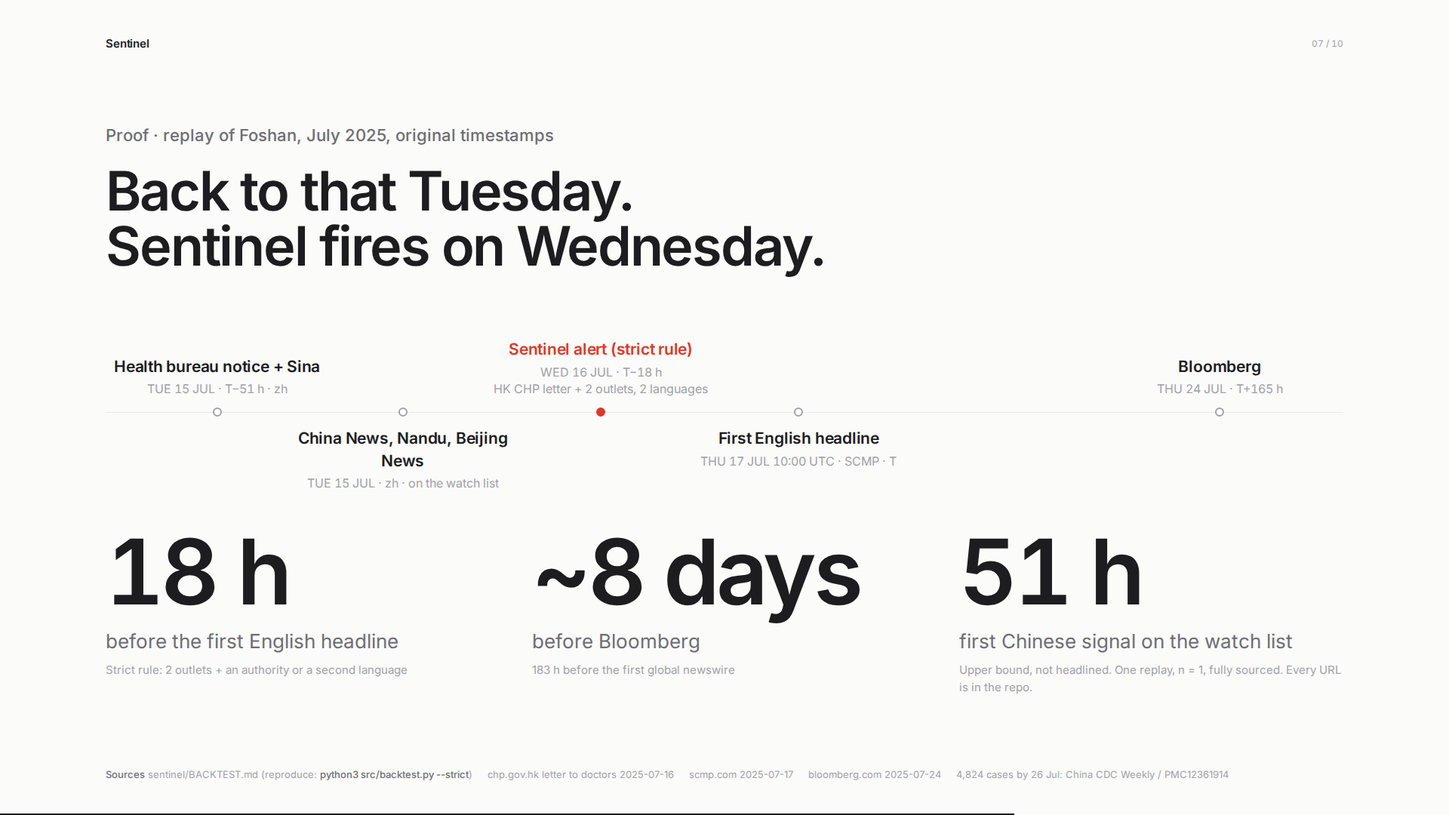
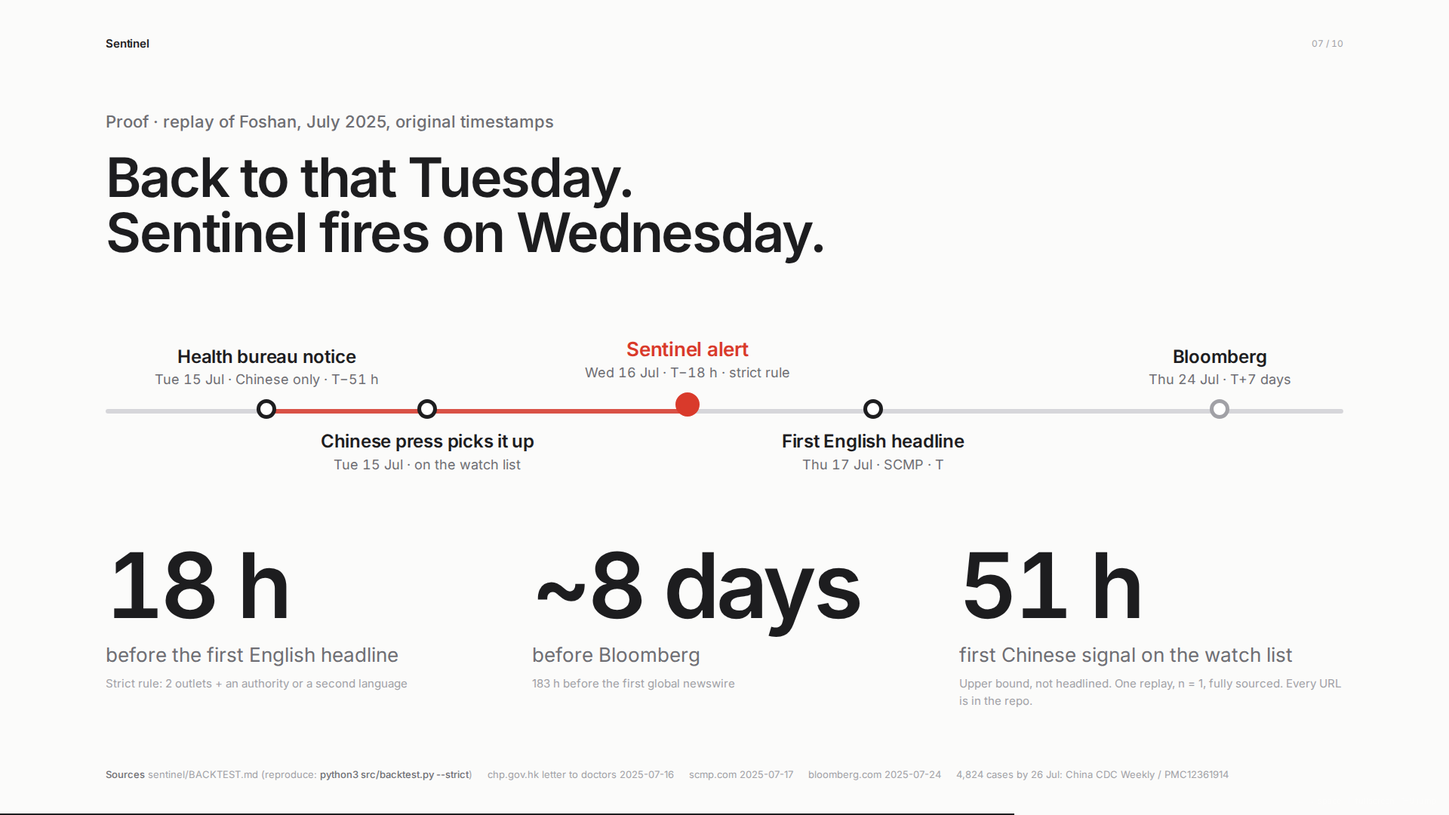
Deck: rebuild pipeline grid (slide 6) and timeline (slide 7)
Claude-Session: https://claude.ai/code/session_01FUCurQPFnAXBDdE5fg9zhM

diff --git a/pitch/deck.html b/pitch/deck.html
@@ -97,31 +97,35 @@
   .rules code { font-family: "SF Mono", ui-monospace, Menlo, monospace; font-size: 19px; background: #f2f2f3; padding: 1px 6px; border-radius: 5px; color: var(--ink); }
 
   /* 6 */
-  .pipe { width: 1640px; height: 520px; margin-top: 56px; display: block; }
-  .pipe .box { fill: #fff; stroke: var(--line); stroke-width: 1.5; }
+  .pipe { width: 1542px; height: 520px; margin-top: 40px; display: block; overflow: visible; }
+  .pipe .box { fill: #fff; stroke: #d6d6da; stroke-width: 1.5; }
   .pipe .lab { font-size: 26px; font-weight: 600; fill: var(--ink); letter-spacing: -0.01em; }
-  .pipe .sub { font-size: 17px; fill: var(--ink-2); }
+  .pipe .sub { font-size: 18px; fill: var(--ink-2); }
   .pipe .code, .pipe .llm { font-size: 13px; font-weight: 600; letter-spacing: .08em; fill: var(--ink-3); }
   .pipe .llm { fill: var(--accent); }
-  .pipe .in { font-size: 17px; fill: var(--ink-2); }
-  .pipe .arr { stroke: var(--ink-3); stroke-width: 1.5; fill: none; }
+  .pipe .in { font-size: 18px; fill: var(--ink-2); }
+  .pipe .arr { stroke: #6e6e73; stroke-width: 2.5; fill: none; stroke-linecap: round; }
   .pipe .note { font-size: 19px; fill: var(--ink-2); }
 
   /* 7 */
-  .bt { margin-top: 64px; }
-  .axis { position: relative; height: 240px; }
-  .axis::before { content: ""; position: absolute; left: 0; right: 0; top: 120px; height: 1px; background: var(--line); }
-  .pt { position: absolute; width: 300px; font-size: 18px; line-height: 1.4; color: var(--ink-2); transform: translateX(-50%); }
-  .pt .dot { width: 12px; height: 12px; border-radius: 50%; background: #fff; border: 2px solid var(--ink-3); margin: 0 auto; }
-  .pt .w { font-weight: 600; color: var(--ink); font-size: 21px; text-align: center; letter-spacing: -0.01em; }
-  .pt .t { color: var(--ink-3); text-align: center; font-size: 16px; font-variant-numeric: tabular-nums; }
-  .pt.above { top: 0; display: flex; flex-direction: column; justify-content: flex-end; height: 126px; gap: 4px; }
-  .pt.above .dot { margin-top: 10px; }
-  .pt.below { top: 114px; display: flex; flex-direction: column; gap: 4px; }
-  .pt.below .dot { margin-bottom: 10px; }
-  .pt.sig .dot { background: var(--accent); border-color: var(--accent); }
-  .pt.sig .w { color: var(--accent); }
-  .lead { display: grid; grid-template-columns: repeat(3, 1fr); gap: 56px; margin-top: 32px; }
+  .bt { margin-top: 48px; }
+  .axis { position: relative; height: 300px; }
+  .axis::before { content: ""; position: absolute; left: 0; right: 0; top: 150px; height: 6px; border-radius: 3px; background: #d6d6da; }
+  .axis .span { position: absolute; top: 150px; height: 6px; border-radius: 3px; background: var(--accent); opacity: .85; }
+  .pt { position: absolute; width: 330px; line-height: 1.35; color: var(--ink-2); transform: translateX(-50%); text-align: center; }
+  .pt .dot { width: 26px; height: 26px; border-radius: 50%; background: #fff; border: 5px solid var(--ink); margin: 0 auto; box-sizing: border-box; }
+  .pt .w { font-weight: 600; color: var(--ink); font-size: 24px; letter-spacing: -0.01em; }
+  .pt .t { color: var(--ink-2); font-size: 18px; font-variant-numeric: tabular-nums; margin-top: 2px; }
+  .pt.above { top: 0; height: 163px; display: flex; flex-direction: column; justify-content: flex-end; }
+  .pt.above .dot { margin-top: 14px; }
+  .pt.below { top: 137px; display: flex; flex-direction: column; }
+  .pt.below .dot { margin-bottom: 14px; }
+  .pt.sig .dot { background: var(--accent); border-color: var(--accent); width: 32px; height: 32px; }
+  .pt.sig.above { height: 160px; }
+  .pt.sig.below { top: 134px; }
+  .pt.sig .w { color: var(--accent); font-size: 26px; }
+  .pt.faint .dot { border-color: var(--ink-3); }
+  .lead { display: grid; grid-template-columns: repeat(3, 1fr); gap: 56px; margin-top: 24px; }
   .lead .n { font-size: 120px; }
 
   /* 8 */
@@ -254,68 +258,14 @@ Nine agents. The language model reads and writes prose. Plain code holds every g
   <div class="num">06 / 10</div>
   <p class="kicker">Nine agents, one cycle every ten minutes</p>
   <h1 class="mid">Stages that don't trust each other.</h1>
-  <svg class="pipe" viewBox="0 0 1640 520" xmlns="http://www.w3.org/2000/svg">
-    <defs><marker id="a" viewBox="0 0 10 10" refX="9" refY="5" markerWidth="7" markerHeight="7" orient="auto-start-reverse"><path d="M0 0L10 5L0 10z" fill="#a1a1a6"/></marker></defs>
-    <!-- inputs -->
-    <g>
-      <text class="in" x="0" y="52">NHC · GDACS · USGS</text>
-      <text class="in" x="0" y="76">WHO DON · ECDC · EONET</text>
-      <text class="in" x="0" y="100">Google News en/es/fr/pt/hi/zh</text>
-      <path class="arr" d="M250 72 L 290 72" marker-end="url(#a)"/>
-    </g>
-    <!-- row 1 -->
-    <g>
-      <rect class="box" x="290" y="20" width="190" height="104" rx="14"/>
-      <text class="lab" x="312" y="58">Fetch</text><text class="sub" x="312" y="82">cache-first, offline</text><text class="code" x="312" y="108">CODE</text>
-      <path class="arr" d="M480 72 L 520 72" marker-end="url(#a)"/>
-
-      <rect class="box" x="520" y="20" width="190" height="104" rx="14"/>
-      <text class="lab" x="542" y="58">Scout</text><text class="sub" x="542" y="82">cluster signals → events</text><text class="llm" x="542" y="108">CLAUDE</text>
-      <path class="arr" d="M710 72 L 750 72" marker-end="url(#a)"/>
-
-      <rect class="box" x="750" y="20" width="240" height="104" rx="14"/>
-      <text class="lab" x="772" y="58">Corroborator</text><text class="sub" x="772" y="82">≥2 independent · any language</text><text class="code" x="772" y="108">CODE</text>
-      <path class="arr" d="M990 72 L 1030 72" marker-end="url(#a)"/>
-
-      <rect class="box" x="1030" y="20" width="190" height="104" rx="14"/>
-      <text class="lab" x="1052" y="58">Verifier</text><text class="sub" x="1052" y="82">quote found verbatim</text><text class="code" x="1052" y="108">CODE</text>
-      <path class="arr" d="M1220 72 L 1260 72" marker-end="url(#a)"/>
-
-      <rect class="box" x="1260" y="20" width="210" height="104" rx="14"/>
-      <text class="lab" x="1282" y="58">Assessor</text><text class="sub" x="1282" y="82">severity COPIED · score</text><text class="llm" x="1282" y="108">CLAUDE</text>
-    </g>
-    <!-- turn -->
-    <path class="arr" d="M1365 124 L 1365 230" marker-end="url(#a)"/>
-    <!-- row 2, right to left -->
-    <g>
-      <rect class="box" x="1260" y="230" width="210" height="104" rx="14"/>
-      <text class="lab" x="1282" y="268">Exposure</text><text class="sub" x="1282" y="292">footprint × our book</text><text class="code" x="1282" y="318">CODE · SPATIAL JOIN</text>
-      <path class="arr" d="M1260 282 L 1220 282" marker-end="url(#a)"/>
-
-      <rect class="box" x="980" y="230" width="240" height="104" rx="14"/>
-      <text class="lab" x="1002" y="268">Brief × 3</text><text class="sub" x="1002" y="292">Health · Wealth · Insurance</text><text class="llm" x="1002" y="318">CLAUDE · QUOTES ONLY</text>
-      <path class="arr" d="M980 282 L 940 282" marker-end="url(#a)"/>
-
-      <rect class="box" x="750" y="230" width="190" height="104" rx="14"/>
-      <text class="lab" x="772" y="268">Router</text><text class="sub" x="772" y="292">touches book / threshold</text><text class="code" x="772" y="318">CODE · DEDUP</text>
-      <path class="arr" d="M750 282 L 710 282" marker-end="url(#a)"/>
-
-      <rect class="box" x="520" y="230" width="190" height="104" rx="14"/>
-      <text class="lab" x="542" y="268">Notifier</text><text class="sub" x="542" y="292">Slack / email + caveat</text><text class="code" x="542" y="318">CODE</text>
-      <path class="arr" d="M520 282 L 480 282" marker-end="url(#a)"/>
-    </g>
-    <!-- outputs -->
-    <g>
-      <text class="in" x="460" y="262" text-anchor="end">CUO Property · Cat desk</text>
-      <text class="in" x="460" y="286" text-anchor="end">Claims · A&amp;H · Travel · CIO</text>
-      <text class="in" x="460" y="310" text-anchor="end">+ run log, every cycle</text>
-    </g>
-    <!-- legend -->
-    <g transform="translate(0,420)">
-      <text class="llm" x="0" y="0">CLAUDE</text><text class="sub" x="70" y="0">Language model: reads, clusters, writes prose from verified quotes</text>
-      <text class="code" x="600" y="0">CODE</text><text class="sub" x="650" y="0">Plain code: gates, verification, geometry, routing. Every stage has a deterministic fallback.</text>
-    </g>
-    <text class="note" x="0" y="470">One Python orchestrator. Claude calls are cached by evidence hash; a full cycle is under $1. If the API is down, the alert still ships.</text>
+  <svg class="pipe" viewBox="0 -8 1542 520" xmlns="http://www.w3.org/2000/svg">
+    <defs><marker id="a" viewBox="0 0 10 10" refX="9" refY="5" markerWidth="6" markerHeight="6" orient="auto-start-reverse"><path d="M0 0L10 5L0 10z" fill="#6e6e73"/></marker></defs>
+    <rect class="box" x="0" y="20" width="286" height="120" rx="16"/><text class="lab" x="24" y="64">Fetch</text><text class="sub" x="24" y="94">cache-first, offline</text><text class="code" x="24" y="122">CODE</text><path class="arr" d="M290 80.0 L310 80.0" marker-end="url(#a)"/><rect class="box" x="314" y="20" width="286" height="120" rx="16"/><text class="lab" x="338" y="64">Scout</text><text class="sub" x="338" y="94">cluster signals into events</text><text class="llm" x="338" y="122">CLAUDE</text><path class="arr" d="M604 80.0 L624 80.0" marker-end="url(#a)"/><rect class="box" x="628" y="20" width="286" height="120" rx="16"/><text class="lab" x="652" y="64">Corroborator</text><text class="sub" x="652" y="94">2+ independent, any language</text><text class="code" x="652" y="122">CODE</text><path class="arr" d="M918 80.0 L938 80.0" marker-end="url(#a)"/><rect class="box" x="942" y="20" width="286" height="120" rx="16"/><text class="lab" x="966" y="64">Verifier</text><text class="sub" x="966" y="94">quote found verbatim</text><text class="code" x="966" y="122">CODE</text><path class="arr" d="M1232 80.0 L1252 80.0" marker-end="url(#a)"/><rect class="box" x="1256" y="20" width="286" height="120" rx="16"/><text class="lab" x="1280" y="64">Assessor</text><text class="sub" x="1280" y="94">severity copied, score</text><text class="llm" x="1280" y="122">CLAUDE</text><path class="arr" d="M1399.0 144 L1399.0 246" marker-end="url(#a)"/><rect class="box" x="1256" y="250" width="286" height="120" rx="16"/><text class="lab" x="1280" y="294">Exposure</text><text class="sub" x="1280" y="324">event × our book</text><text class="code" x="1280" y="352">CODE</text><path class="arr" d="M1252 310.0 L1232 310.0" marker-end="url(#a)"/><rect class="box" x="942" y="250" width="286" height="120" rx="16"/><text class="lab" x="966" y="294">Brief × 3</text><text class="sub" x="966" y="324">Health · Wealth · Insurance</text><text class="llm" x="966" y="352">CLAUDE</text><path class="arr" d="M938 310.0 L918 310.0" marker-end="url(#a)"/><rect class="box" x="628" y="250" width="286" height="120" rx="16"/><text class="lab" x="652" y="294">Router</text><text class="sub" x="652" y="324">who owns the decision</text><text class="code" x="652" y="352">CODE</text><path class="arr" d="M624 310.0 L604 310.0" marker-end="url(#a)"/><rect class="box" x="314" y="250" width="286" height="120" rx="16"/><text class="lab" x="338" y="294">Notifier</text><text class="sub" x="338" y="324">Slack, email, caveat</text><text class="code" x="338" y="352">CODE</text><path class="arr" d="M310 310.0 L274 310.0" marker-end="url(#a)"/><text class="in" x="262" y="296.0" text-anchor="end">CUO · Cat desk · Claims</text><text class="in" x="262" y="324.0" text-anchor="end">A&amp;H · Travel · CIO</text><text class="in" x="0" y="18" style="font-size:16px">Inputs: NHC · GDACS · USGS · WHO · ECDC · EONET · news in en/es/fr/pt/hi/zh</text>
+    <g transform="translate(0,440)">
+  <text class="llm" x="0" y="0">CLAUDE</text><text class="sub" x="90" y="0">reads, clusters and writes prose from verified quotes</text>
+  <text class="code" x="640" y="0">CODE</text><text class="sub" x="710" y="0">gates, verification, geometry, routing. Every stage has a fallback.</text>
+</g>
+<text class="note" x="0" y="488">One Python orchestrator. A full cycle costs under $1. If the model is down, the alert still ships.</text>
   </svg>
   <div class="foot"><span><b>Sources</b> README.md pipeline and design rule 3</span><span>pitch/QA.md Q5 (cost), Q9 (always-on)</span><span>sentinel/src/run.py, agents.py</span></div>
 </section>
@@ -328,11 +278,12 @@ Nine agents. The language model reads and writes prose. Plain code holds every g
   <h1 class="mid">Back to that Tuesday. Sentinel fires on Wednesday.</h1>
   <div class="bt">
     <div class="axis">
-      <div class="pt above" style="left:9%"><div class="w">Health bureau notice + Sina</div><div class="t">TUE 15 JUL · T−51 h · zh</div><div class="dot"></div></div>
-      <div class="pt below" style="left:24%"><div class="dot"></div><div class="w">China News, Nandu, Beijing News</div><div class="t">TUE 15 JUL · zh · on the watch list</div></div>
-      <div class="pt sig above" style="left:40%"><div class="w">Sentinel alert (strict rule)</div><div class="t">WED 16 JUL · T−18 h<br>HK CHP letter + 2 outlets, 2 languages</div><div class="dot"></div></div>
-      <div class="pt below" style="left:56%"><div class="dot"></div><div class="w">First English headline</div><div class="t">THU 17 JUL 10:00 UTC · SCMP · T</div></div>
-      <div class="pt above" style="left:90%"><div class="w">Bloomberg</div><div class="t">THU 24 JUL · T+165 h</div><div class="dot"></div></div>
+      <div class="span" style="left:13%;width:34%"></div>
+      <div class="pt above" style="left:13%"><div class="w">Health bureau notice</div><div class="t">Tue 15 Jul · Chinese only · T−51 h</div><div class="dot"></div></div>
+      <div class="pt below" style="left:26%"><div class="dot"></div><div class="w">Chinese press picks it up</div><div class="t">Tue 15 Jul · on the watch list</div></div>
+      <div class="pt sig above" style="left:47%"><div class="w">Sentinel alert</div><div class="t">Wed 16 Jul · T−18 h · strict rule</div><div class="dot"></div></div>
+      <div class="pt below" style="left:62%"><div class="dot"></div><div class="w">First English headline</div><div class="t">Thu 17 Jul · SCMP · T</div></div>
+      <div class="pt above faint" style="left:90%"><div class="w">Bloomberg</div><div class="t">Thu 24 Jul · T+7 days</div><div class="dot"></div></div>
     </div>
     <div class="lead">
       <div><div class="n">18 h</div><div class="cap">before the first English headline</div><div class="src">Strict rule: 2 outlets + an authority or a second language</div></div>

diff --git a/sentinel/ui/deck/index.html b/sentinel/ui/deck/index.html
@@ -97,31 +97,35 @@
   .rules code { font-family: "SF Mono", ui-monospace, Menlo, monospace; font-size: 19px; background: #f2f2f3; padding: 1px 6px; border-radius: 5px; color: var(--ink); }
 
   /* 6 */
-  .pipe { width: 1640px; height: 520px; margin-top: 56px; display: block; }
-  .pipe .box { fill: #fff; stroke: var(--line); stroke-width: 1.5; }
+  .pipe { width: 1542px; height: 520px; margin-top: 40px; display: block; overflow: visible; }
+  .pipe .box { fill: #fff; stroke: #d6d6da; stroke-width: 1.5; }
   .pipe .lab { font-size: 26px; font-weight: 600; fill: var(--ink); letter-spacing: -0.01em; }
-  .pipe .sub { font-size: 17px; fill: var(--ink-2); }
+  .pipe .sub { font-size: 18px; fill: var(--ink-2); }
   .pipe .code, .pipe .llm { font-size: 13px; font-weight: 600; letter-spacing: .08em; fill: var(--ink-3); }
   .pipe .llm { fill: var(--accent); }
-  .pipe .in { font-size: 17px; fill: var(--ink-2); }
-  .pipe .arr { stroke: var(--ink-3); stroke-width: 1.5; fill: none; }
+  .pipe .in { font-size: 18px; fill: var(--ink-2); }
+  .pipe .arr { stroke: #6e6e73; stroke-width: 2.5; fill: none; stroke-linecap: round; }
   .pipe .note { font-size: 19px; fill: var(--ink-2); }
 
   /* 7 */
-  .bt { margin-top: 64px; }
-  .axis { position: relative; height: 240px; }
-  .axis::before { content: ""; position: absolute; left: 0; right: 0; top: 120px; height: 1px; background: var(--line); }
-  .pt { position: absolute; width: 300px; font-size: 18px; line-height: 1.4; color: var(--ink-2); transform: translateX(-50%); }
-  .pt .dot { width: 12px; height: 12px; border-radius: 50%; background: #fff; border: 2px solid var(--ink-3); margin: 0 auto; }
-  .pt .w { font-weight: 600; color: var(--ink); font-size: 21px; text-align: center; letter-spacing: -0.01em; }
-  .pt .t { color: var(--ink-3); text-align: center; font-size: 16px; font-variant-numeric: tabular-nums; }
-  .pt.above { top: 0; display: flex; flex-direction: column; justify-content: flex-end; height: 126px; gap: 4px; }
-  .pt.above .dot { margin-top: 10px; }
-  .pt.below { top: 114px; display: flex; flex-direction: column; gap: 4px; }
-  .pt.below .dot { margin-bottom: 10px; }
-  .pt.sig .dot { background: var(--accent); border-color: var(--accent); }
-  .pt.sig .w { color: var(--accent); }
-  .lead { display: grid; grid-template-columns: repeat(3, 1fr); gap: 56px; margin-top: 32px; }
+  .bt { margin-top: 48px; }
+  .axis { position: relative; height: 300px; }
+  .axis::before { content: ""; position: absolute; left: 0; right: 0; top: 150px; height: 6px; border-radius: 3px; background: #d6d6da; }
+  .axis .span { position: absolute; top: 150px; height: 6px; border-radius: 3px; background: var(--accent); opacity: .85; }
+  .pt { position: absolute; width: 330px; line-height: 1.35; color: var(--ink-2); transform: translateX(-50%); text-align: center; }
+  .pt .dot { width: 26px; height: 26px; border-radius: 50%; background: #fff; border: 5px solid var(--ink); margin: 0 auto; box-sizing: border-box; }
+  .pt .w { font-weight: 600; color: var(--ink); font-size: 24px; letter-spacing: -0.01em; }
+  .pt .t { color: var(--ink-2); font-size: 18px; font-variant-numeric: tabular-nums; margin-top: 2px; }
+  .pt.above { top: 0; height: 163px; display: flex; flex-direction: column; justify-content: flex-end; }
+  .pt.above .dot { margin-top: 14px; }
+  .pt.below { top: 137px; display: flex; flex-direction: column; }
+  .pt.below .dot { margin-bottom: 14px; }
+  .pt.sig .dot { background: var(--accent); border-color: var(--accent); width: 32px; height: 32px; }
+  .pt.sig.above { height: 160px; }
+  .pt.sig.below { top: 134px; }
+  .pt.sig .w { color: var(--accent); font-size: 26px; }
+  .pt.faint .dot { border-color: var(--ink-3); }
+  .lead { display: grid; grid-template-columns: repeat(3, 1fr); gap: 56px; margin-top: 24px; }
   .lead .n { font-size: 120px; }
 
   /* 8 */
@@ -254,68 +258,14 @@ Nine agents. The language model reads and writes prose. Plain code holds every g
   <div class="num">06 / 10</div>
   <p class="kicker">Nine agents, one cycle every ten minutes</p>
   <h1 class="mid">Stages that don't trust each other.</h1>
-  <svg class="pipe" viewBox="0 0 1640 520" xmlns="http://www.w3.org/2000/svg">
-    <defs><marker id="a" viewBox="0 0 10 10" refX="9" refY="5" markerWidth="7" markerHeight="7" orient="auto-start-reverse"><path d="M0 0L10 5L0 10z" fill="#a1a1a6"/></marker></defs>
-    <!-- inputs -->
-    <g>
-      <text class="in" x="0" y="52">NHC · GDACS · USGS</text>
-      <text class="in" x="0" y="76">WHO DON · ECDC · EONET</text>
-      <text class="in" x="0" y="100">Google News en/es/fr/pt/hi/zh</text>
-      <path class="arr" d="M250 72 L 290 72" marker-end="url(#a)"/>
-    </g>
-    <!-- row 1 -->
-    <g>
-      <rect class="box" x="290" y="20" width="190" height="104" rx="14"/>
-      <text class="lab" x="312" y="58">Fetch</text><text class="sub" x="312" y="82">cache-first, offline</text><text class="code" x="312" y="108">CODE</text>
-      <path class="arr" d="M480 72 L 520 72" marker-end="url(#a)"/>
-
-      <rect class="box" x="520" y="20" width="190" height="104" rx="14"/>
-      <text class="lab" x="542" y="58">Scout</text><text class="sub" x="542" y="82">cluster signals → events</text><text class="llm" x="542" y="108">CLAUDE</text>
-      <path class="arr" d="M710 72 L 750 72" marker-end="url(#a)"/>
-
-      <rect class="box" x="750" y="20" width="240" height="104" rx="14"/>
-      <text class="lab" x="772" y="58">Corroborator</text><text class="sub" x="772" y="82">≥2 independent · any language</text><text class="code" x="772" y="108">CODE</text>
-      <path class="arr" d="M990 72 L 1030 72" marker-end="url(#a)"/>
-
-      <rect class="box" x="1030" y="20" width="190" height="104" rx="14"/>
-      <text class="lab" x="1052" y="58">Verifier</text><text class="sub" x="1052" y="82">quote found verbatim</text><text class="code" x="1052" y="108">CODE</text>
-      <path class="arr" d="M1220 72 L 1260 72" marker-end="url(#a)"/>
-
-      <rect class="box" x="1260" y="20" width="210" height="104" rx="14"/>
-      <text class="lab" x="1282" y="58">Assessor</text><text class="sub" x="1282" y="82">severity COPIED · score</text><text class="llm" x="1282" y="108">CLAUDE</text>
-    </g>
-    <!-- turn -->
-    <path class="arr" d="M1365 124 L 1365 230" marker-end="url(#a)"/>
-    <!-- row 2, right to left -->
-    <g>
-      <rect class="box" x="1260" y="230" width="210" height="104" rx="14"/>
-      <text class="lab" x="1282" y="268">Exposure</text><text class="sub" x="1282" y="292">footprint × our book</text><text class="code" x="1282" y="318">CODE · SPATIAL JOIN</text>
-      <path class="arr" d="M1260 282 L 1220 282" marker-end="url(#a)"/>
-
-      <rect class="box" x="980" y="230" width="240" height="104" rx="14"/>
-      <text class="lab" x="1002" y="268">Brief × 3</text><text class="sub" x="1002" y="292">Health · Wealth · Insurance</text><text class="llm" x="1002" y="318">CLAUDE · QUOTES ONLY</text>
-      <path class="arr" d="M980 282 L 940 282" marker-end="url(#a)"/>
-
-      <rect class="box" x="750" y="230" width="190" height="104" rx="14"/>
-      <text class="lab" x="772" y="268">Router</text><text class="sub" x="772" y="292">touches book / threshold</text><text class="code" x="772" y="318">CODE · DEDUP</text>
-      <path class="arr" d="M750 282 L 710 282" marker-end="url(#a)"/>
-
-      <rect class="box" x="520" y="230" width="190" height="104" rx="14"/>
-      <text class="lab" x="542" y="268">Notifier</text><text class="sub" x="542" y="292">Slack / email + caveat</text><text class="code" x="542" y="318">CODE</text>
-      <path class="arr" d="M520 282 L 480 282" marker-end="url(#a)"/>
-    </g>
-    <!-- outputs -->
-    <g>
-      <text class="in" x="460" y="262" text-anchor="end">CUO Property · Cat desk</text>
-      <text class="in" x="460" y="286" text-anchor="end">Claims · A&amp;H · Travel · CIO</text>
-      <text class="in" x="460" y="310" text-anchor="end">+ run log, every cycle</text>
-    </g>
-    <!-- legend -->
-    <g transform="translate(0,420)">
-      <text class="llm" x="0" y="0">CLAUDE</text><text class="sub" x="70" y="0">Language model: reads, clusters, writes prose from verified quotes</text>
-      <text class="code" x="600" y="0">CODE</text><text class="sub" x="650" y="0">Plain code: gates, verification, geometry, routing. Every stage has a deterministic fallback.</text>
-    </g>
-    <text class="note" x="0" y="470">One Python orchestrator. Claude calls are cached by evidence hash; a full cycle is under $1. If the API is down, the alert still ships.</text>
+  <svg class="pipe" viewBox="0 -8 1542 520" xmlns="http://www.w3.org/2000/svg">
+    <defs><marker id="a" viewBox="0 0 10 10" refX="9" refY="5" markerWidth="6" markerHeight="6" orient="auto-start-reverse"><path d="M0 0L10 5L0 10z" fill="#6e6e73"/></marker></defs>
+    <rect class="box" x="0" y="20" width="286" height="120" rx="16"/><text class="lab" x="24" y="64">Fetch</text><text class="sub" x="24" y="94">cache-first, offline</text><text class="code" x="24" y="122">CODE</text><path class="arr" d="M290 80.0 L310 80.0" marker-end="url(#a)"/><rect class="box" x="314" y="20" width="286" height="120" rx="16"/><text class="lab" x="338" y="64">Scout</text><text class="sub" x="338" y="94">cluster signals into events</text><text class="llm" x="338" y="122">CLAUDE</text><path class="arr" d="M604 80.0 L624 80.0" marker-end="url(#a)"/><rect class="box" x="628" y="20" width="286" height="120" rx="16"/><text class="lab" x="652" y="64">Corroborator</text><text class="sub" x="652" y="94">2+ independent, any language</text><text class="code" x="652" y="122">CODE</text><path class="arr" d="M918 80.0 L938 80.0" marker-end="url(#a)"/><rect class="box" x="942" y="20" width="286" height="120" rx="16"/><text class="lab" x="966" y="64">Verifier</text><text class="sub" x="966" y="94">quote found verbatim</text><text class="code" x="966" y="122">CODE</text><path class="arr" d="M1232 80.0 L1252 80.0" marker-end="url(#a)"/><rect class="box" x="1256" y="20" width="286" height="120" rx="16"/><text class="lab" x="1280" y="64">Assessor</text><text class="sub" x="1280" y="94">severity copied, score</text><text class="llm" x="1280" y="122">CLAUDE</text><path class="arr" d="M1399.0 144 L1399.0 246" marker-end="url(#a)"/><rect class="box" x="1256" y="250" width="286" height="120" rx="16"/><text class="lab" x="1280" y="294">Exposure</text><text class="sub" x="1280" y="324">event × our book</text><text class="code" x="1280" y="352">CODE</text><path class="arr" d="M1252 310.0 L1232 310.0" marker-end="url(#a)"/><rect class="box" x="942" y="250" width="286" height="120" rx="16"/><text class="lab" x="966" y="294">Brief × 3</text><text class="sub" x="966" y="324">Health · Wealth · Insurance</text><text class="llm" x="966" y="352">CLAUDE</text><path class="arr" d="M938 310.0 L918 310.0" marker-end="url(#a)"/><rect class="box" x="628" y="250" width="286" height="120" rx="16"/><text class="lab" x="652" y="294">Router</text><text class="sub" x="652" y="324">who owns the decision</text><text class="code" x="652" y="352">CODE</text><path class="arr" d="M624 310.0 L604 310.0" marker-end="url(#a)"/><rect class="box" x="314" y="250" width="286" height="120" rx="16"/><text class="lab" x="338" y="294">Notifier</text><text class="sub" x="338" y="324">Slack, email, caveat</text><text class="code" x="338" y="352">CODE</text><path class="arr" d="M310 310.0 L274 310.0" marker-end="url(#a)"/><text class="in" x="262" y="296.0" text-anchor="end">CUO · Cat desk · Claims</text><text class="in" x="262" y="324.0" text-anchor="end">A&amp;H · Travel · CIO</text><text class="in" x="0" y="18" style="font-size:16px">Inputs: NHC · GDACS · USGS · WHO · ECDC · EONET · news in en/es/fr/pt/hi/zh</text>
+    <g transform="translate(0,440)">
+  <text class="llm" x="0" y="0">CLAUDE</text><text class="sub" x="90" y="0">reads, clusters and writes prose from verified quotes</text>
+  <text class="code" x="640" y="0">CODE</text><text class="sub" x="710" y="0">gates, verification, geometry, routing. Every stage has a fallback.</text>
+</g>
+<text class="note" x="0" y="488">One Python orchestrator. A full cycle costs under $1. If the model is down, the alert still ships.</text>
   </svg>
   <div class="foot"><span><b>Sources</b> README.md pipeline and design rule 3</span><span>pitch/QA.md Q5 (cost), Q9 (always-on)</span><span>sentinel/src/run.py, agents.py</span></div>
 </section>
@@ -328,11 +278,12 @@ Nine agents. The language model reads and writes prose. Plain code holds every g
   <h1 class="mid">Back to that Tuesday. Sentinel fires on Wednesday.</h1>
   <div class="bt">
     <div class="axis">
-      <div class="pt above" style="left:9%"><div class="w">Health bureau notice + Sina</div><div class="t">TUE 15 JUL · T−51 h · zh</div><div class="dot"></div></div>
-      <div class="pt below" style="left:24%"><div class="dot"></div><div class="w">China News, Nandu, Beijing News</div><div class="t">TUE 15 JUL · zh · on the watch list</div></div>
-      <div class="pt sig above" style="left:40%"><div class="w">Sentinel alert (strict rule)</div><div class="t">WED 16 JUL · T−18 h<br>HK CHP letter + 2 outlets, 2 languages</div><div class="dot"></div></div>
-      <div class="pt below" style="left:56%"><div class="dot"></div><div class="w">First English headline</div><div class="t">THU 17 JUL 10:00 UTC · SCMP · T</div></div>
-      <div class="pt above" style="left:90%"><div class="w">Bloomberg</div><div class="t">THU 24 JUL · T+165 h</div><div class="dot"></div></div>
+      <div class="span" style="left:13%;width:34%"></div>
+      <div class="pt above" style="left:13%"><div class="w">Health bureau notice</div><div class="t">Tue 15 Jul · Chinese only · T−51 h</div><div class="dot"></div></div>
+      <div class="pt below" style="left:26%"><div class="dot"></div><div class="w">Chinese press picks it up</div><div class="t">Tue 15 Jul · on the watch list</div></div>
+      <div class="pt sig above" style="left:47%"><div class="w">Sentinel alert</div><div class="t">Wed 16 Jul · T−18 h · strict rule</div><div class="dot"></div></div>
+      <div class="pt below" style="left:62%"><div class="dot"></div><div class="w">First English headline</div><div class="t">Thu 17 Jul · SCMP · T</div></div>
+      <div class="pt above faint" style="left:90%"><div class="w">Bloomberg</div><div class="t">Thu 24 Jul · T+7 days</div><div class="dot"></div></div>
     </div>
     <div class="lead">
       <div><div class="n">18 h</div><div class="cap">before the first English headline</div><div class="src">Strict rule: 2 outlets + an authority or a second language</div></div>
